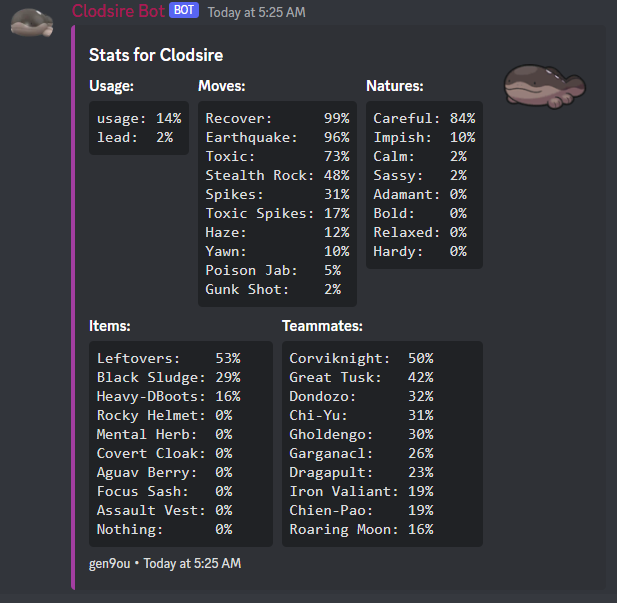
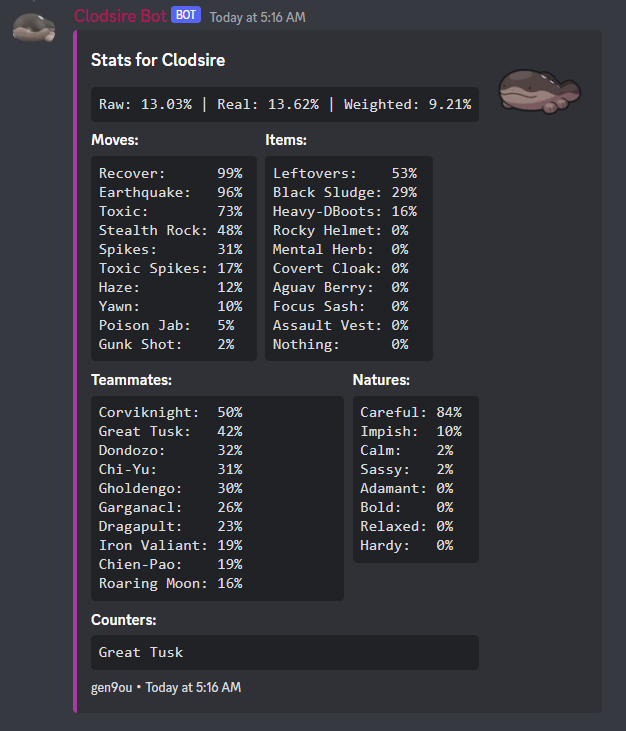
stats updated

diff --git a/pages/statsEmbed.js b/pages/statsEmbed.js
@@ -22,24 +22,23 @@ const statsEmbed = async (pokemon, gen) => {
 		};
 	}
 
-	embed.addFields(createField('Usage:', parseUsageAbility(stats.data), true));
-	embed.addFields(createField('Moves:', stats.data['moves'], true));
-	embed.addFields(createField('Natures:', parseSpreads(stats.data['spreads']), true));
-	embed.addFields(createField('Items:', stats.data['items'], true));
-	embed.addFields(createField('Teammates:', stats.data['teammates'], true));
+	embed.setDescription('```' + `Raw: ${(stats.data.usage.raw * 100).toFixed(2)}% | Real: ${(stats.data.usage.real * 100).toFixed(2)}% | Weighted: ${(stats.data.usage.weighted * 100).toFixed(2)}%` + '```');
+
+	embed.addFields(createField('Moves:', stats.data.moves, true));
+	embed.addFields(createField('Items:', stats.data.items, true));
+	embed.addFields({ name: '\u200b', value: '\u200b', inline: true });
+	embed.addFields(createField('Teammates:', stats.data.teammates, true));
+	embed.addFields(createField('Natures:', parseSpreads(stats.data.spreads), true));
+	if (Object.keys(stats.data.counters).length != 0) {
+		embed.addFields({ name: 'Counters:', value: '```' +
+		Object.keys(stats.data.counters).toString().split(',').join(', ') + '```' });
+	}
 
 	return {
 		embeds: [embed],
 		ephemeral: false,
 	};
 };
-
-function parseUsageAbility(data) {
-	return {
-		usage: data.usage.real,
-		lead: data.lead.real,
-	};
-}
 
 const fetchStats = async (pokemon, gen) => {
 	const gens = new Generations(Dex);
